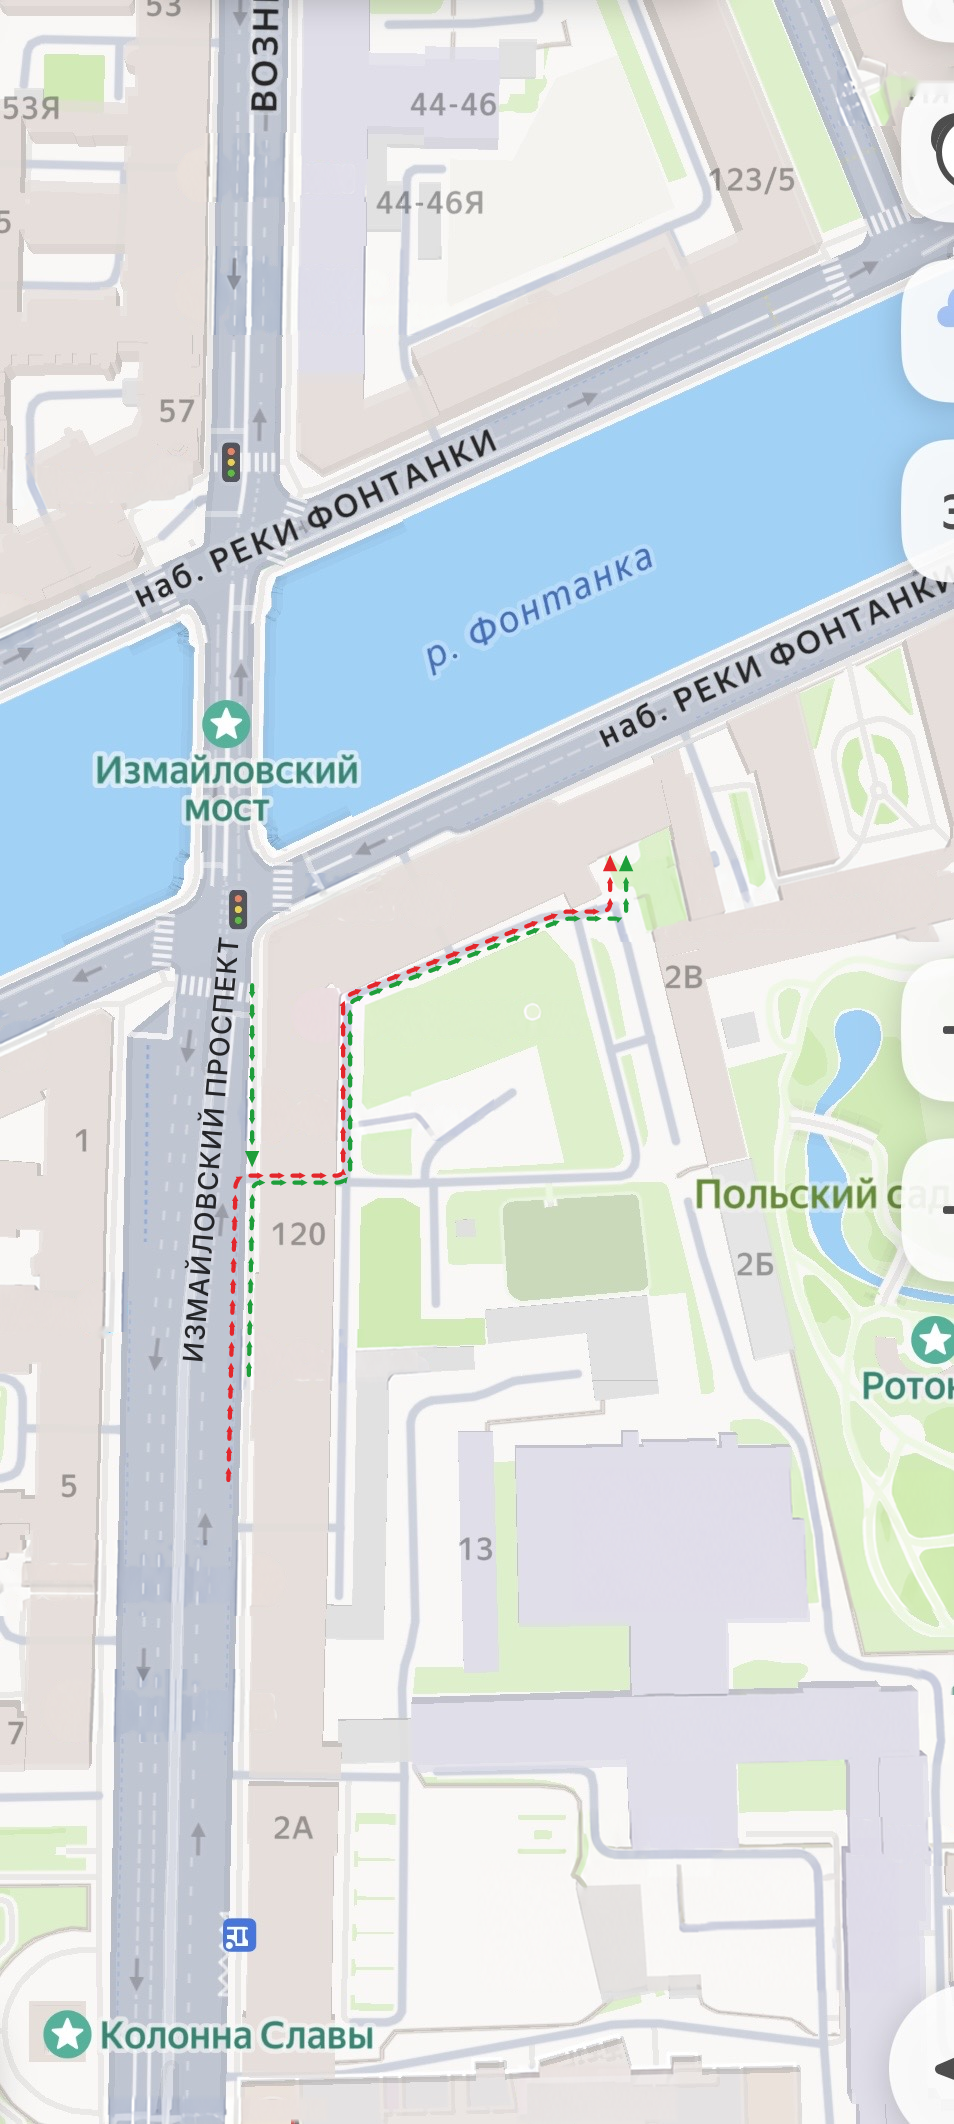
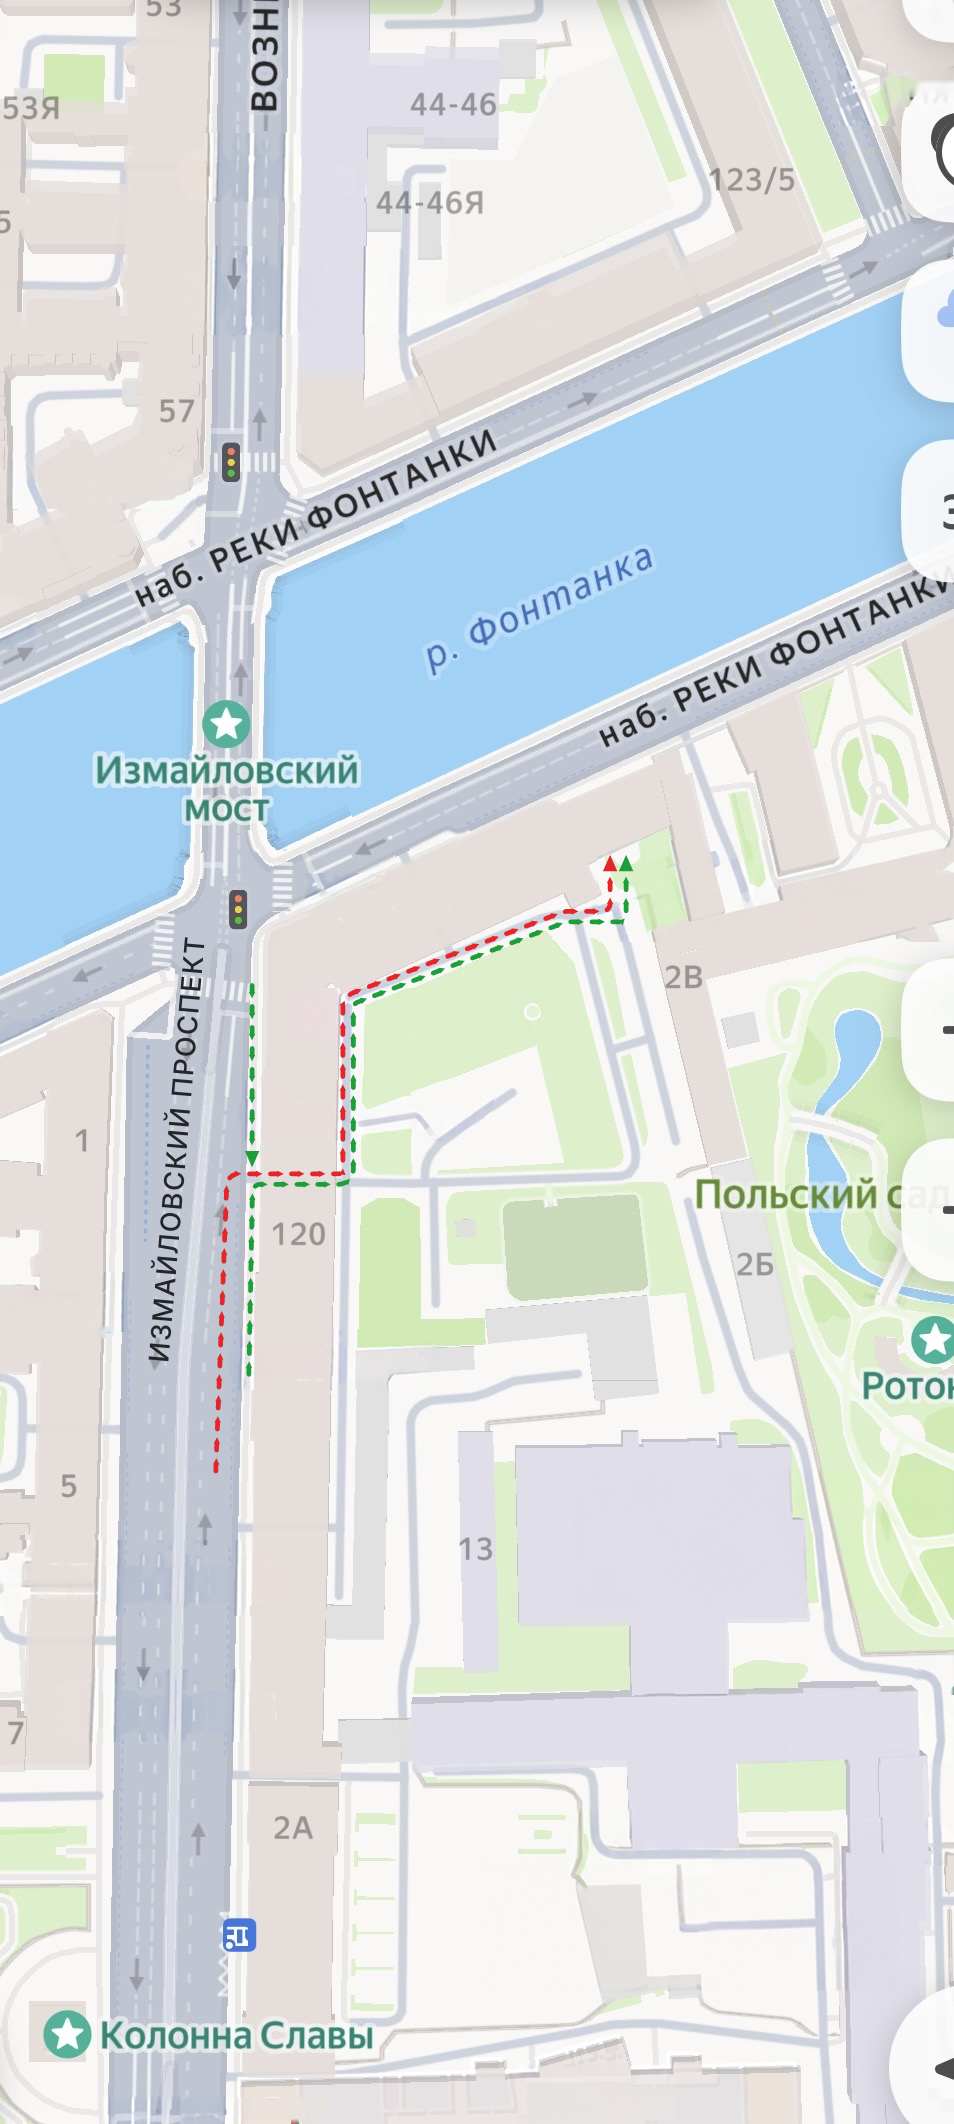
Thicker route lines, wider red/green gap, label on 2nd lane, red centred in lane
- stroke width 4.0 -> 4.4 px (+10 %)
- gap between parallel red and green lines 3 -> 6 px; shared courtyard
  axis moved 1.5 px away from the buildings to keep clearance
- street label moved left onto the 2nd southbound lane
- red route on the prospekt runs in the middle of its lane

Claude-Session: https://claude.ai/code/session_011ZKiB5jfvHUZeSMyHGDLTQ

Changed region(s): [[0.152, 0.435, 0.3952, 0.6836], [0.4256, 0.435, 0.4864, 0.4661], [0.5168, 0.435, 0.5472, 0.4661]]

diff --git a/make_routes.py b/make_routes.py
@@ -28,14 +28,14 @@ orig = np.asarray(base).copy()
 RED = (227, 38, 43)
 GREEN = (30, 158, 58)
 TEXT = (36, 37, 40)
-LINE_W = 4.0        # stroke width, px
+LINE_W = 4.4        # stroke width, px (+10 %)
 HEAD_LEN = 16.0     # arrowhead length, px
 DASH_BODY = 9.0     # dash stroke length, px
 DASH_HEAD = 6.0     # length of the small pointer on every dash, px
-DASH_HW = 6.0       # its base width: stays inside the 2 px gap to the parallel route
+DASH_HW = 6.0       # its base width
 DASH_GAP = 6.0      # gap between dashes, px
 HEAD_W = 14.0       # arrowhead base width, px
-OFF = 3.5           # half-distance between parallel red/green centre lines
+OFF = 5.2           # half-distance between parallel red/green centre lines: line gap 2*OFF-LINE_W = 6 px
 
 
 # ---------- geometry helpers ----------
@@ -99,14 +99,14 @@ def fillet_path(pts, radii, step=0.25):
 # ---------- route geometry ----------
 EAST, NORTH = (1, 0), (0, -1)
 L_ARCH = line_pd((246, 1179), EAST)                 # through the arch
-L_YARD = line_pd((346.5, 1179), NORTH)               # courtyard driveway, vertical
-L_DIAG = line_pd((460, 955.5), (1, -0.385))          # courtyard driveway, diagonal (+3 px south: clear of facade)
-L_TOP = line_pd((600, 915), EAST)                    # driveway in front of the museum (+2 px: clear of the notch)
+L_YARD = line_pd((348, 1179), NORTH)                 # courtyard driveway, vertical (+1.5 px east: room for the 6 px gap)
+L_DIAG = line_pd((460, 957), (1, -0.385))            # courtyard driveway, diagonal (+4.5 px south: clear of facade)
+L_TOP = line_pd((600, 916.5), EAST)                  # driveway in front of the museum (+3.5 px: clear of the notch)
 TIP_Y = 855                                          # arrow tips, just short of the facade
 
 
-def curb_lane(y):  # red lane on the northbound carriageway, parallel to the east curb
-    return 235.0 - 0.024 * (y - 1200)
+def curb_lane(y):  # middle of the northbound lane between the white dashed line and the blue dotted line
+    return 226.0 - 0.0382 * (y - 1200)
 
 
 def shared(side):
@@ -117,13 +117,13 @@ def shared(side):
 
 
 R_ARCH_TURN, R_DIAG, R_TOP = 10, 12, 20
-red_v = [(curb_lane(1480), 1480), None] + shared(-1) + [(610, 915 - OFF), (610, TIP_Y)]
+red_v = [(curb_lane(1480), 1480), None] + shared(-1) + [(610, 916.5 - OFF), (610, TIP_Y)]
 red_lane = line_pd((curb_lane(1480), 1480), (curb_lane(1176) - curb_lane(1480), 1176 - 1480))
 red_v[1] = meet(red_lane, offset(L_ARCH, -OFF))
 red = fillet_path(red_v, [12, R_ARCH_TURN - OFF, R_DIAG + OFF, R_TOP - OFF, 8])
 
 walk_lane = line_pd((248.5, 1385), (4, -203))           # middle of the east sidewalk (narrows to the south)
-green_s_v = [(248.5, 1385), meet(walk_lane, offset(L_ARCH, OFF))] + shared(+1) + [(626, 915 + OFF), (626, TIP_Y)]
+green_s_v = [(248.5, 1385), meet(walk_lane, offset(L_ARCH, OFF))] + shared(+1) + [(626, 916.5 + OFF), (626, TIP_Y)]
 green_s = fillet_path(green_s_v, [8, R_ARCH_TURN + OFF, R_DIAG - OFF, R_TOP + OFF, 8])
 
 green_n = fillet_path([(252, 985), (252, 1167)], [])
@@ -205,7 +205,7 @@ def median_c(y):  # centre of the light dividing strip of Izmailovsky prospekt
 
 
 LABEL_Y = 1150.0                       # centre of the mark on image 2 (mapped), clear of the traffic light
-BASE_OFF = 16.5                        # baseline east of strip centre: clear of lane arrow at x>=218
+BASE_OFF = -17.5                       # baseline so that the cap-height centre is on the 2nd southbound lane (x~175.5 at y 1150)
 target = np.array([median_c(LABEL_Y) + BASE_OFF, LABEL_Y])
 u = np.array([0.0861, -1.0]); u /= np.linalg.norm(u)   # reading direction: along the road, northwards
 v = np.array([-u[1], u[0]])                             # glyph "down" (towards baseline) = east

diff --git a/verify.py b/verify.py
@@ -76,6 +76,12 @@ for k, name in (("red", "red"), ("green_s", "green south"), ("green_n", "green n
     check(f"{name}: no building crossing outside the arch", hit.sum() == 0,
           f"{hit.sum()} px" + (f" at x{xs.min()}-{xs.max()} y{ys.min()}-{ys.max()}" if hit.sum() else ""))
 
+# red on the prospekt runs in the middle of its lane (white dashed line .. blue dotted line)
+LANE_R = {1200: (214.5, 237.5), 1260: (210.5, 236), 1300: (207.5, 235.5), 1380: (202.5, 233), 1420: (201.5, 233), 1480: (199.5, 231)}
+pr = np.array(meta["red_car"]["path"])
+devr = [abs(np.interp(y, pr[::-1, 1], pr[::-1, 0]) - (a + b) / 2) for y, (a, b) in LANE_R.items()]
+check("red in the middle of its lane on the prospekt", max(devr) < 1.5, "deviation " + ", ".join(f"{d:.1f}" for d in devr) + " px")
+
 # 5. red and green never overlap; label overlaps nothing drawn
 green = (L["green_s"] > 0) | (L["green_n"] > 0)
 check("red/green overlap", np.sum((L["red"] > 0) & green) == 0, f"{np.sum((L['red'] > 0) & green)} px")
@@ -87,8 +93,15 @@ check("label does not touch the arrows", np.sum((L["text"] > 0) & routes) == 0)
 # 6. label position
 q = np.array(meta["label"]["quad"])
 ctr = q.mean(0)
-MARK_C, MARK_ANG = np.array([222.0, 1144.0]), 4.1  # centre/angle of the mark on image 2 (mapped)
-check("label centred on the mark", np.hypot(*(ctr - MARK_C)) < 25, f"label centre {ctr.round(1).tolist()}, mark {MARK_C.tolist()}")
+MARK_ANG = 4.1  # angle of the mark on image 2 (mapped)
+# 2nd southbound lane: between the two white dashed lines west of the dividing strip
+LANE2 = {1000: (184, 198), 1100: (172, 186), 1150: (169, 182), 1200: (162, 176.5), 1300: (153, 167)}
+def lab_c(y):  # midpoint of the letters' ink across the road at height y
+    xs = np.nonzero((L["text"][y - 6:y + 7] > 0.3).any(0))[0]
+    return (xs.min() + xs.max()) / 2
+dev = [abs(lab_c(y) - (a + b) / 2) for y, (a, b) in LANE2.items()]
+check("label centred on the 2nd lane", max(dev) < 3.5, "deviation " + ", ".join(f"{d:.1f}" for d in dev) + " px")
+check("label still at the mark along the road", abs(ctr[1] - 1149) < 5, f"centre y {ctr[1]:.1f}")
 check("label parallel to the road", abs(meta["label"]["angle_deg_from_vertical"] - MARK_ANG) < 2,
       f"{meta['label']['angle_deg_from_vertical']:.1f} deg vs mark {MARK_ANG} deg / dividing strip 4.9 deg")
 t = L["text"] > 0
